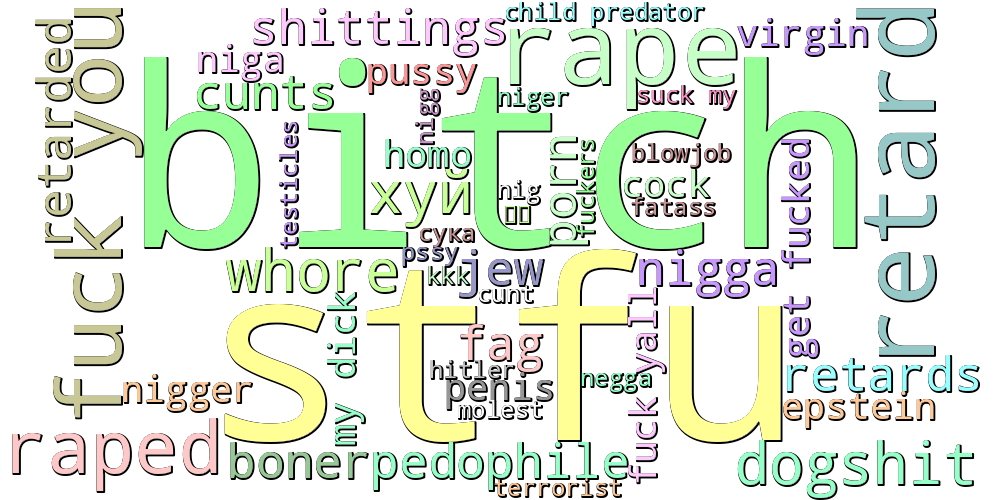
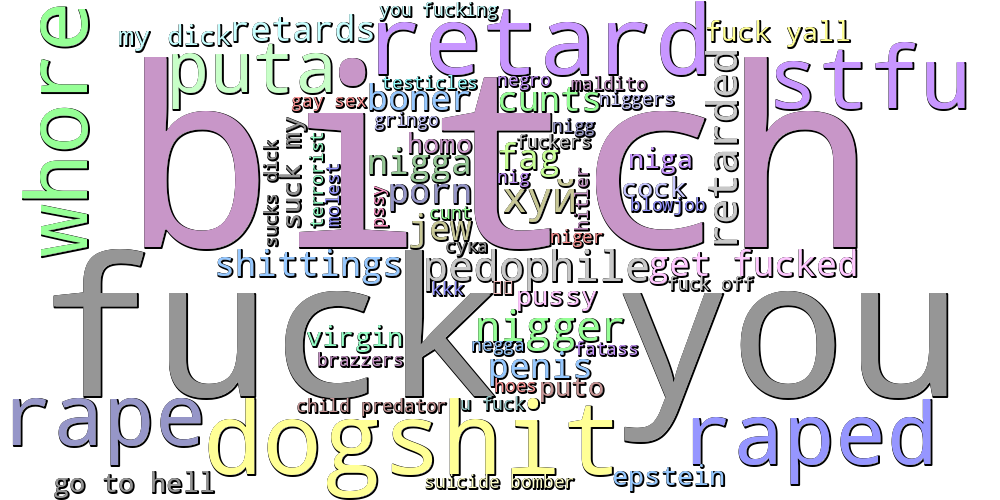
im feeling lucky

diff --git a/sveltelexi/src/routes/Layout.css b/sveltelexi/src/routes/Layout.css
@@ -129,10 +129,14 @@ body.page-transition #page-content {
 }
 
 .flexsearchthing{
-width: max(60%, 450px);
-max-width: 100%;
+  width: max(60%, 450px);
+  max-width: 100%;
+  
 }
 
+.owqdkwqdq{
+  width: 100%; display: flex; height: 100%; position: relative;
+}
 .searchsuggestionholder {
   position: absolute;
   display: flex;
@@ -170,7 +174,23 @@ max-width: 100%;
   /* box-shadow: 1px 0px 0px 1px rgba(100,100 , 100, 1) ; */
   color: #55f;
 }
-
+.lucky{
+  position: absolute;
+  right: 5px;
+  top:0px;
+  height: 50%;
+  top:50%;
+  transform: translate(0,-50%);
+  display: flex;
+  align-items: center;
+  
+}
+.lucky:hover{
+  filter: brightness(1000%);
+}
+.lucky:active{
+  filter: brightness(80%)
+}
 .suggestionname{
   overflow: hidden;
   text-overflow: ellipsis;

diff --git a/sveltelexi/src/lib/remote/data.remote.ts b/sveltelexi/src/lib/remote/data.remote.ts
@@ -229,3 +229,26 @@ export const getbadcontext = query(
 		return { context, statuscode: status };
 	}
 );
+
+
+export const getlucky = query(
+	async () => {
+		let steam64 = "0"
+		// console.log(profile)
+
+		try {
+			 const response = await fetch(`${API_URL}/lucky`, {
+				method: 'GET',
+			});
+
+			if (response.ok) {
+				steam64 = await response.text();
+			}
+
+		} catch {
+			
+		}
+
+		return steam64 ;
+	}
+);

diff --git a/sveltelexi/src/routes/+page.svelte b/sveltelexi/src/routes/+page.svelte
@@ -7,10 +7,13 @@
 	const utcDate = new Date('2026-07-23T08:00:00Z');
 	import { getwordclouddaily } from '$lib/remote/data.remote';
 	import Search from '$lib/morestuff/Search.svelte';
-	const localTime = utcDate.toLocaleTimeString(undefined, {
-		hour: 'numeric',
-		minute: '2-digit'
-	});
+	const localTime = utcDate.toLocaleString()
+	// 	undefined, {
+	// 	hour: 'numeric',
+	// 	minute: '2-digit',
+
+	// 	day: 'numeric'
+	// });
 
 	let blurradius = $state(23)
 
@@ -67,16 +70,13 @@
 		</u>
 		on discord
 	</div>
-	{#if stats.badrecentmessages && false}
+	{#if stats.badrecentmessages}
 	<div class = "flexbox worddailybox"  role="presentation" onmouseenter={() => {blurradius = 0}}  onmouseleave={() => {blurradius = 23}}>
 		<div class="stat"> <div class="statsname">Bad words sent yesterday: </div><div class="statsstat"> {stats.badrecentmessages.toLocaleString() }</div> </div>
 	{#await getwordclouddaily("big")}
 	<img style = {`filter: blur(${blurradius}px)`} src={(await getwordclouddaily("smol")).profile} class="wordcloudimage" alt="wordcloud" />
 	{:then {profile}}
-	
-		<img src={profile} class="wordcloudimage" alt="wordcloud" style = {`filter: blur(${blurradius}px)`}/>
-	
-
+		<img src={profile} title={`last updated at ${localTime} this morning`} class="wordcloudimage" alt="wordcloud" style = {`filter: blur(${blurradius}px)`}/>
 	{/await}
 	</div>
 	{/if}

diff --git a/sveltelexi/src/lib/morestuff/Search.svelte b/sveltelexi/src/lib/morestuff/Search.svelte
@@ -3,8 +3,9 @@
   import { usewsstore } from './websocketsearch';
   import '../../routes/Layout.css';
 	import { onMount } from 'svelte';
-  import {getsteamurl} from '$lib/morestuff/config'
+  import {getlucky} from '$lib/remote/data.remote';
 
+  import {lucky} from './const.svelte';
   let { classNameform = '', classNameinput = '', classnamebutton = '' } = $props();
 
   const { connect, disconnect, sendsearch } = usewsstore.getState();
@@ -18,7 +19,9 @@
  let steam64: string | null = null;
   let searchsuggestionholder: HTMLDivElement
   $effect(() => usewsstore.subscribe((s) => (matches = s.matches)));
-
+ function getsteamurl(steamid: string,includefirstslash= true as boolean) {
+return `${includefirstslash &&"/"|| ""  }${encodeURIComponent(steamid)}`
+ }
   async function onSubmit(e: SubmitEvent) {
     e.preventDefault();
     inputRef?.blur();
@@ -57,6 +60,7 @@ function blurred(event: FocusEvent) {
 <div class = "flexstuff" style = "width:100%">
 <div class="flexstuff flexsearchthing" onfocusout={blurred}>
   <form class={classNameform} onsubmit={onSubmit}   bind:this={form}>
+  <div class = "owqdkwqdq">
     <input
       bind:this={inputRef}
       autocorrect="off"
@@ -68,6 +72,9 @@ function blurred(event: FocusEvent) {
       onfocus={(e) => { focused(); e.currentTarget.select(); sendsearch(e.currentTarget.value); }}
       oninput={(e) => { focused(); sendsearch(e.currentTarget.value); }}
     />
+    <button type="button" class = "lucky" title = "I'm feeling lucky" onclick={async () => {  await goto(getsteamurl(await getlucky()));}}>
+    {@render lucky()} 
+    </button></div>
     <button type="submit" class={classnamebutton}>Search</button>
   </form>
   <div bind:this={searchsuggestionholder} style="position: relative; width: 100%" >

diff --git a/sveltelexi/src/routes/[userid=userid]/+page.svelte b/sveltelexi/src/routes/[userid=userid]/+page.svelte
@@ -5,7 +5,10 @@
 	import type { Userdetails, BadWordsResponse, PlayedWithResponse } from '$lib/morestuff/types';
 	import Miniprofile from '$lib/morestuff/miniprofile.svelte';
 	import { playedwithdetails, nonowords, getprofile, getbadcontext } from '$lib/remote/data.remote';
-
+	let { personresults: skellyresults, statuscode: skellycode } = await getprofile({
+		steam64: '0',
+		recall: 3600
+	});
 	import './Page.css';
 	import { getsteamurl } from '$lib/morestuff/config';
 	let { data } = $props();
@@ -13,10 +16,7 @@
 	let { personresults, statuscode } = $derived(
 		!data.promise ? await data.profile : { personresults: {} as Userdetails, statuscode: 0 }
 	);
-	let { personresults: skellyresults, statuscode: skellycode } = await getprofile({
-		steam64: '0',
-		recall: 3600
-	});
+
 </script>
 
 {#await output}

diff --git a/sveltelexi/src/routes/+layout.svelte b/sveltelexi/src/routes/+layout.svelte
@@ -36,7 +36,14 @@
  {" "}
 				{:then temp}
         {#if temp.statuscode == 200}
-        <a class="Iwantthisinthetopright" href = "https://sans.xixya.com">
+        
+        <a
+          class="Iwantthisinthetopright"
+          href="https://sans.xixya.com"
+          title={temp.lastupdate
+            ? `Last updated at ${new Date(Number(temp.lastupdate) * 1000).toLocaleString()}`
+            : undefined}
+        >
         It is {temp.temp.toLocaleString()}°C in Allusive's room</a>
         {/if}
         	{:catch error}

diff --git a/sveltelexi/src/lib/morestuff/const.svelte b/sveltelexi/src/lib/morestuff/const.svelte
@@ -16,7 +16,7 @@
   import spyLogo from "$lib/images/spy.png";
   // import copylogo from "$lib/images/copy.svg";
 
-  export { ClassLogo, Logo,copy };
+  export { ClassLogo, Logo,copy ,lucky};
 
   const logos = [ionLogo, toneLogo, legionLogo, scorchLogo, roninLogo, northstarLogo] as const;
   const fallbackLogo = logos[0];
@@ -57,4 +57,9 @@
        <svg stroke="rgba(170,170,170,1)" style="max-height:100%" xmlns="http://www.w3.org/2000/svg" width="24" height="24" viewBox="0 0 24 24" fill="none"  stroke-width="2" stroke-linecap="round" stroke-linejoin="round" class="lucide lucide-copy-icon lucide-copy"><rect width="14" height="14" x="8" y="8" rx="2" ry="2"/><path d="M4 16c-1.1 0-2-.9-2-2V4c0-1.1.9-2 2-2h10c1.1 0 2 .9 2 2"/></svg>
     
   
+{/snippet}
+
+
+{#snippet lucky()}
+          <svg fill="rgba(170,170,170,1)"xmlns="http://www.w3.org/2000/svg" height="100%" viewBox="0 -960 960 960" width="24px" ><path d="M342.5-257.5Q360-275 360-300t-17.5-42.5Q325-360 300-360t-42.5 17.5Q240-325 240-300t17.5 42.5Q275-240 300-240t42.5-17.5Zm0-360Q360-635 360-660t-17.5-42.5Q325-720 300-720t-42.5 17.5Q240-685 240-660t17.5 42.5Q275-600 300-600t42.5-17.5Zm180 180Q540-455 540-480t-17.5-42.5Q505-540 480-540t-42.5 17.5Q420-505 420-480t17.5 42.5Q455-420 480-420t42.5-17.5Zm180 180Q720-275 720-300t-17.5-42.5Q685-360 660-360t-42.5 17.5Q600-325 600-300t17.5 42.5Q635-240 660-240t42.5-17.5Zm0-360Q720-635 720-660t-17.5-42.5Q685-720 660-720t-42.5 17.5Q600-685 600-660t17.5 42.5Q635-600 660-600t42.5-17.5ZM200-120q-33 0-56.5-23.5T120-200v-560q0-33 23.5-56.5T200-840h560q33 0 56.5 23.5T840-760v560q0 33-23.5 56.5T760-120H200Zm0-80h560v-560H200v560Zm0-560v560-560Z"/></svg>
 {/snippet}

diff --git a/sveltelexi/src/routes/+layout.server.ts b/sveltelexi/src/routes/+layout.server.ts
@@ -9,15 +9,16 @@ async function getTemp(
 ): Promise<Temp> {
 	try {
 		const response = await f(`${API_URL}/temp`, { method: "GET" });
-
+			const stuff = await response.json()
 		return {
 			statuscode: response.status,
-			temp: await response.text()
+			temp: (stuff).temp,
+			lastupdate: (stuff).lastupdate
 		};
 	} catch {
 		return {
 			statuscode: 500,
-			temp: ''
+			temp: 0
 		};
 	}
 }

diff --git a/sveltelexi/src/routes/[userid=userid]/+layout.server.ts b/sveltelexi/src/routes/[userid=userid]/+layout.server.ts
@@ -13,8 +13,8 @@ export const load: LayoutServerLoad = async ({ params, fetch, url, cookies }) =>
 	// console.log(url.searchParams)
 
 	if (cookies.get('client')) {
-		return   {profile: getprofile({ steam64: decodeURIComponent(params.userid), recall: 3600 }),promise:true}
-
+		return { profile: getprofile({ steam64: decodeURIComponent(params.userid), recall: 3600 }), promise: true }
+		
 	}
 		return   {profile: await getprofile({ steam64: decodeURIComponent(params.userid), recall: 3600 }),promise:false}
 

diff --git a/sveltelexi/src/routes/types.ts b/sveltelexi/src/routes/types.ts
@@ -1,5 +1,6 @@
 export type temp = {
     statuscode: number
-    temp: string
+    temp: number
+    lastupdate?: number
 
 };

diff --git a/search.py b/search.py
@@ -6,6 +6,7 @@ import sys
 import functools
 import time
 import schedule
+import random
 import threading
 import requests
 from datetime import datetime, timezone, timedelta
@@ -34,7 +35,11 @@ lock = threading.Lock()
 
 lastratelimittime = 0
 dailywordcloud = {}
+nextlucky = {"running":False,"lucky":[]}
 updatetime = "07"
+
+
+
 def wocotd():
     global dailywordcloud
     today = int(datetime.now(timezone.utc).replace(hour=int(updatetime), minute=0, second=0, microsecond=0).timestamp())
@@ -60,7 +65,8 @@ def wocotd():
 
 def woctodwrapper():
     threading.Thread(target=wocotd, daemon=True).start()
-woctodwrapper()
+    threading.Thread(target=cachestats, daemon=True).start()
+threading.Thread(target=wocotd, daemon=True).start()
 schedule.every().day.at(f"{updatetime}:00", "Etc/UTC").do(woctodwrapper)
 def cachestats():
     print("caching stats")
@@ -150,7 +156,7 @@ def stats_cache():
     if os.path.exists("./statscache.json"):
         with open("./statscache.json", "r") as f:
             stats = json.load(f)
-    if not stats or now - 86400 > stats["timestampcached"]:
+    if not stats or now - 86500 > stats["timestampcached"]:
         threading.Thread(target=cachestats, daemon=True).start()
     if not stats: return {}
     if "timestampcached" in stats:
@@ -385,6 +391,35 @@ def logdata():
         query.execute("INSERT INTO logdata (timestamp,ip,path,useragent,cfcountry,hostname,isclient,cfray) VALUES (%s,%s,%s,%s,%s,%s,%s,%s)",(now,realip,data["path"],data["headers"].get("user-agent"),data["headers"].get("cf-ipcountry"),data["hostname"],cookie.get("client",False) and cookie.get("client",False).value == "true",data["headers"].get("cf-ray")))
         query.commit()
     return "",200
+
+
+def getnextlucky():
+    global nextlucky
+    with lock:
+        if nextlucky["running"]:
+            return
+        nextlucky["running"] = True
+    with querywrapper() as query:
+        query.execute("SELECT steamid, SUM(cardinality(ids)) FROM usernames GROUP BY steamid")
+        stuff = query.fetchall()
+    # total = functools.map(lambda b: min(b[1],100),stuff)
+    who = random.choices(stuff,list(map(lambda b: min(b[1],100),stuff)),k=10-len(nextlucky))
+    with lock:
+
+        nextlucky["lucky"].extend(list(map(lambda x: x[0],who)))
+        nextlucky["running"] = False
+getnextlucky()
[email redacted]("/lucky",methods=["GET"])
+def lucky():
+    with lock:
+        # print(bool(nextlucky["lucky"]),nextlucky["lucky"])
+        threading.Thread(target=getnextlucky, daemon=True).start()
+        return str(nextlucky["lucky"].pop(0)), 200
+    getnextlucky()
+    with lock:
+        return str(nextlucky["lucky"].pop(0)), 200
+    
+        
 
 @app.route("/profile", methods=["POST"])
 def resolveprofile():

diff --git a/tempurature.py b/tempurature.py
@@ -1,13 +1,13 @@
 import requests
 import threading
 import time
-temp = "pants" , 500
+temp = {"temp":0,"lastupdate":0} , 500
 lock = threading.Lock()
 
 def tempreading():
     re = requests.get("https://allusive.me/temp/",timeout = 30)
     if re.ok:
-        return f"{float(re.text):.2f}",200
+        return {"temp":float(f"{float(re.text):.2f}"),"lastupdate":int(time.time())} ,200
     else:
         return None
 